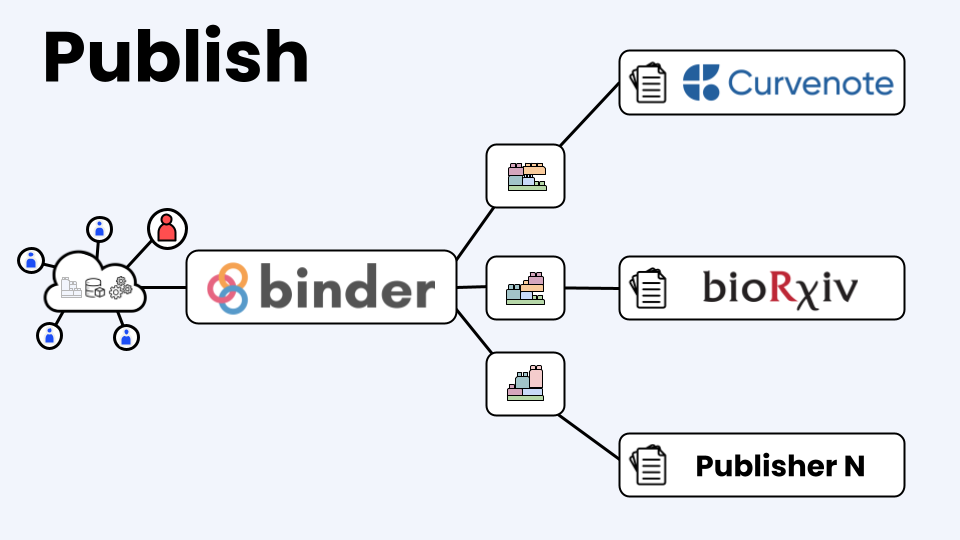
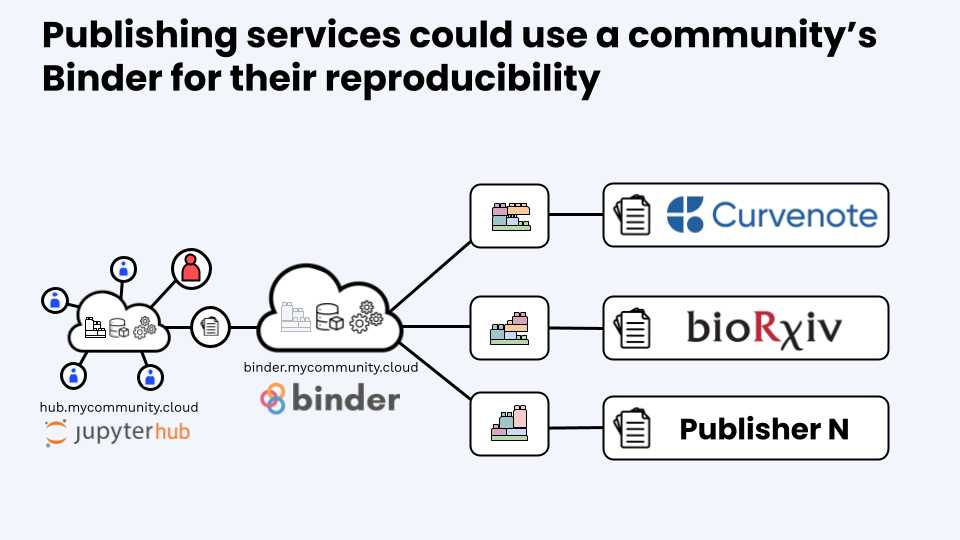
Add images to reproducibility post

Changed region(s): [[0.0, 0.237, 0.9375, 0.9481], [0.0312, 0.0296, 0.9375, 0.237], [0.9375, 0.1778, 0.9688, 0.2074]]

diff --git a/content/blog/2025/frictionless-reproducibility/index.md b/content/blog/2025/frictionless-reproducibility/index.md
@@ -1,6 +1,8 @@
 ---
 title: "Towards frictionless, portable, and sustainable reproducibility with Binder"
 date: 2025-02-10
+comment: |
+  Figures are here: https://docs.google.com/presentation/d/1ApnGswakl2U_OUzYxSOSis3V-DbmR8EsJhO-DZ7MuLk/edit#slide=id.g33066a3c77c_0_0
 --- 
 
 Last December I had an opportunity to discuss the current and future state of the open publishing ecosystem. While 2i2c doesn't primarily focus on "publishing" workflows, we do support communities on a journey that often _leads to publishing_, and we make choices about technology in our [open cloud platform](../../../platform/) that can support different kinds of publishing outcomes.
@@ -55,7 +57,9 @@ Integrating with publishing in this way would empower communities to leverage th
 
 ## How could we sustain the cost of running computation for published articles?
 
-This raises an important question: how would you sustain services like these? Communities are already nervous about the cost of computation for their workflows. Public services like [mybinder.org](https://mybinder.org) are free and accessible, but suitable for complex or mission-critical workflows. Would community stakeholders pay for privileged access to BinderHubs that could reproduce and share their computational narratives? Would publishers be willing to pay a percentage of the cloud and management costs associated with reproduction? Could we use this to sustain a larger public service like mybinder.org?
+This raises an important question: how would you sustain services like these? Communities are already nervous about the cost of computation for their workflows. Public services like [mybinder.org](https://mybinder.org) are free and accessible, but not scalable, nor suitable for complex or mission-critical workflows[^scale]. Would community stakeholders pay for privileged access to BinderHubs that could reproduce and share their computational narratives? Would publishers be willing to pay a percentage of the cloud and management costs associated with reproduction? Could we use this to sustain a larger public service like mybinder.org?
+
+[^scale]: The costs associated with running [mybinder.org](https://mybinder.org) have historically been shouldered by donations from organizations such has [OVH](https://ovhcloud.com), [Google](https://google.com), [GESIS](https://notebooks.gesis.org/), [Curvenote](https://curvenote.com), and now [2i2c](https://2i2c.org). These donations are not guaranteed, and do not scale directly with the number of users.
 
 We don't have any answers yet but we're keen to try. Some of these ideas were recently explored in a talk recorded for [AGU 2024](https://agu.confex.com/agu/fm24/meetingapp.cgi/Paper/100644).
 

diff --git a/content/blog/2025/knowledge-cycle/index.md b/content/blog/2025/knowledge-cycle/index.md
@@ -1,6 +1,7 @@
 ---
-date: 2024-12-16
+date: 2024-2-15
 title: "Where we hope to improve our service for creating and sharing knowledge."
+draft: true
 ---
 
 <style>
@@ -17,21 +18,20 @@ title: "Where we hope to improve our service for creating and sharing knowledge.
   }
 </style>
 
-Over the years, 2i2c has managed infrastructure for more than 100 communities in research and education. Over this time, we've seen patterns emerge in how communities attract new members, collaborate with them, and create new knowledge. This post is a reflection on this process, where 2i2c has supported it historically, and where we think we can enhance our service to better-support this workflow.
-
+Over the years, 2i2c has managed infrastructure for more than 100 communities in research and education. During this time, we've seen patterns emerge in how communities attract new members, collaborate with them, and create new knowledge. This post is a reflection on this process, where 2i2c has supported it historically, and where we think we can enhance our service to better-support this workflow.
 ## Elements of data-driven discovery
 
 For any individual to create and share knowledge with data, they need access to a few key resources[^1]:
 
 - **Data** is the raw material that drives computational ideas.
 - **Computation** provides the mechanism for manipulating data with code.
-- **Tools** domain-specific software that leverage data and computation for specific outcomes.
+- **Tools** comprise of domain-specific software that leverage data and computation for specific outcomes.
 
 Users leverage these resources by creating two types of content:
 
 [^1]: For a more in-depth discussion of the relationship between tools, ideas, data, and computation, [Granger & Perez, 2021](https://ieeexplore.ieee.org/document/9387490).
 
-- **Code** operates these resources in order to run analyses, generate visualizations and reports, etc.
+- **Code** consumes these resources in order to run analyses, generate visualizations and reports, etc.
 - **Narratives** contextualize the work of code to tell a story.
 - **Computational Narratives** are a special-case of code and narratives that recognize the unique interplay between computation and scientific ideas for data-driven discovery.
 
